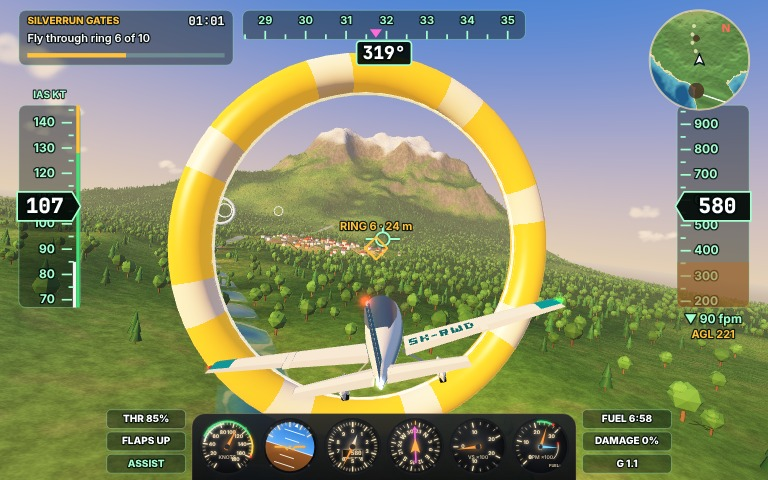
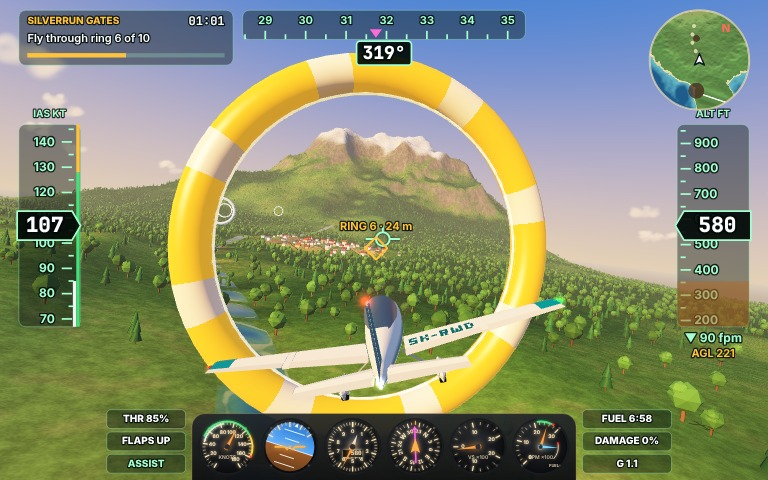
Lower the HUD tapes so the ALT FT label clears the minimap
Claude-Session: https://claude.ai/code/session_013aFgNxawAtzCzATrD7uXbz

Changed region(s): [[0.875, 0.2188, 1.0, 0.75], [0.0, 0.1875, 0.125, 0.6875]]

diff --git a/game/src/hud/flight-hud.js b/game/src/hud/flight-hud.js
@@ -42,7 +42,7 @@ export function createFlightHud(canvas, minimap) {
     const w = 72 * u;
     const h = 236 * u;
     const x = 22 * u;
-    const cy = H * 0.43;
+    const cy = H * 0.47;
     const perKt = h / 80;
     glassPanel(x, cy - h / 2, w, h);
     ctx.save();
@@ -72,7 +72,7 @@ export function createFlightHud(canvas, minimap) {
     const w = 84 * u;
     const h = 236 * u;
     const x = W - 22 * u - w;
-    const cy = H * 0.43;
+    const cy = H * 0.47;
     const perFoot = h / 800;
     glassPanel(x, cy - h / 2, w, h);
     ctx.save();
